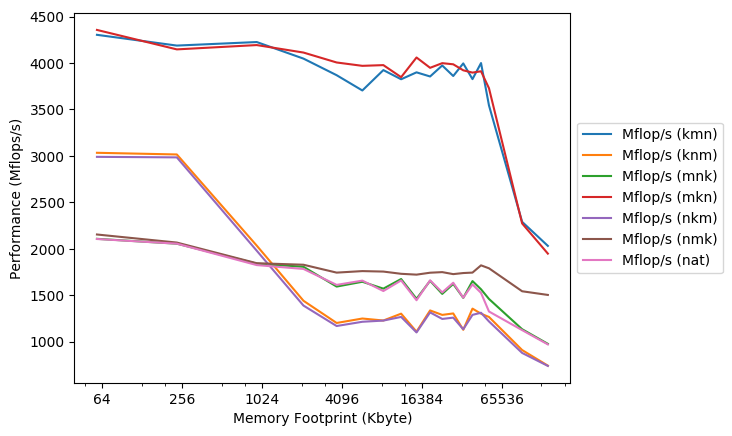
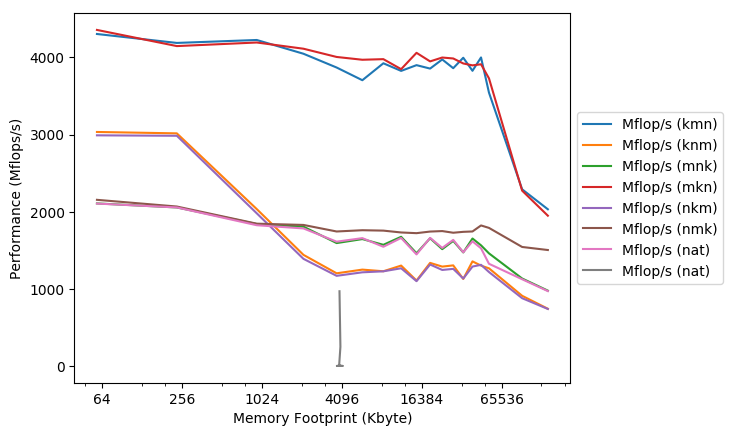
Updated plots and viz.py

diff --git a/viz.py b/viz.py
@@ -46,6 +46,10 @@ df8 = pd.read_csv('data/%s/%s/lib.%s.gcc.dat'%(cc, opt, opt),delim_whitespace=Tr
     names=['memory','Mflop/s (lib)', 'error', 'dummy', 'permutation'])\
     .drop(['dummy','permutation', 'error'],axis=1)                                                    
 '''
+df9 = pd.read_csv('data/%s/%s/blk.%s.gcc.dat'%(cc, opt, opt),delim_whitespace=True,header=None,
+    names=['memory','Mflop/s (nat)', 'error', 'dummy', 'permutation'])\
+    .drop(['dummy','permutation', 'error'],axis=1)
+        
 		
 plt.figure()
 ax = df1.plot('memory',logx=False)
@@ -56,6 +60,7 @@ df5.plot('memory', ax=ax)
 df6.plot('memory', ax=ax)
 df7.plot('memory', ax=ax)
 #df8.plot('memory', ax=ax)
+df9.plot('memory', ax=ax)
 plt.legend(loc='center left', bbox_to_anchor=(1.0, 0.5))
 plt.xlabel('Memory Footprint (Kbyte)')
 plt.ylabel('Performance (Mflops/s)')
